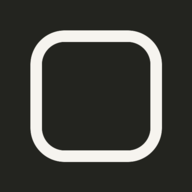
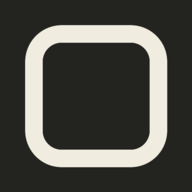
Add files via upload

diff --git a/sw.js b/sw.js
@@ -1,4 +1,4 @@
-const CACHE = 'uchet-v8';
+const CACHE = 'uchet-v9';
 const ASSETS = [
   './',
   './index.html',